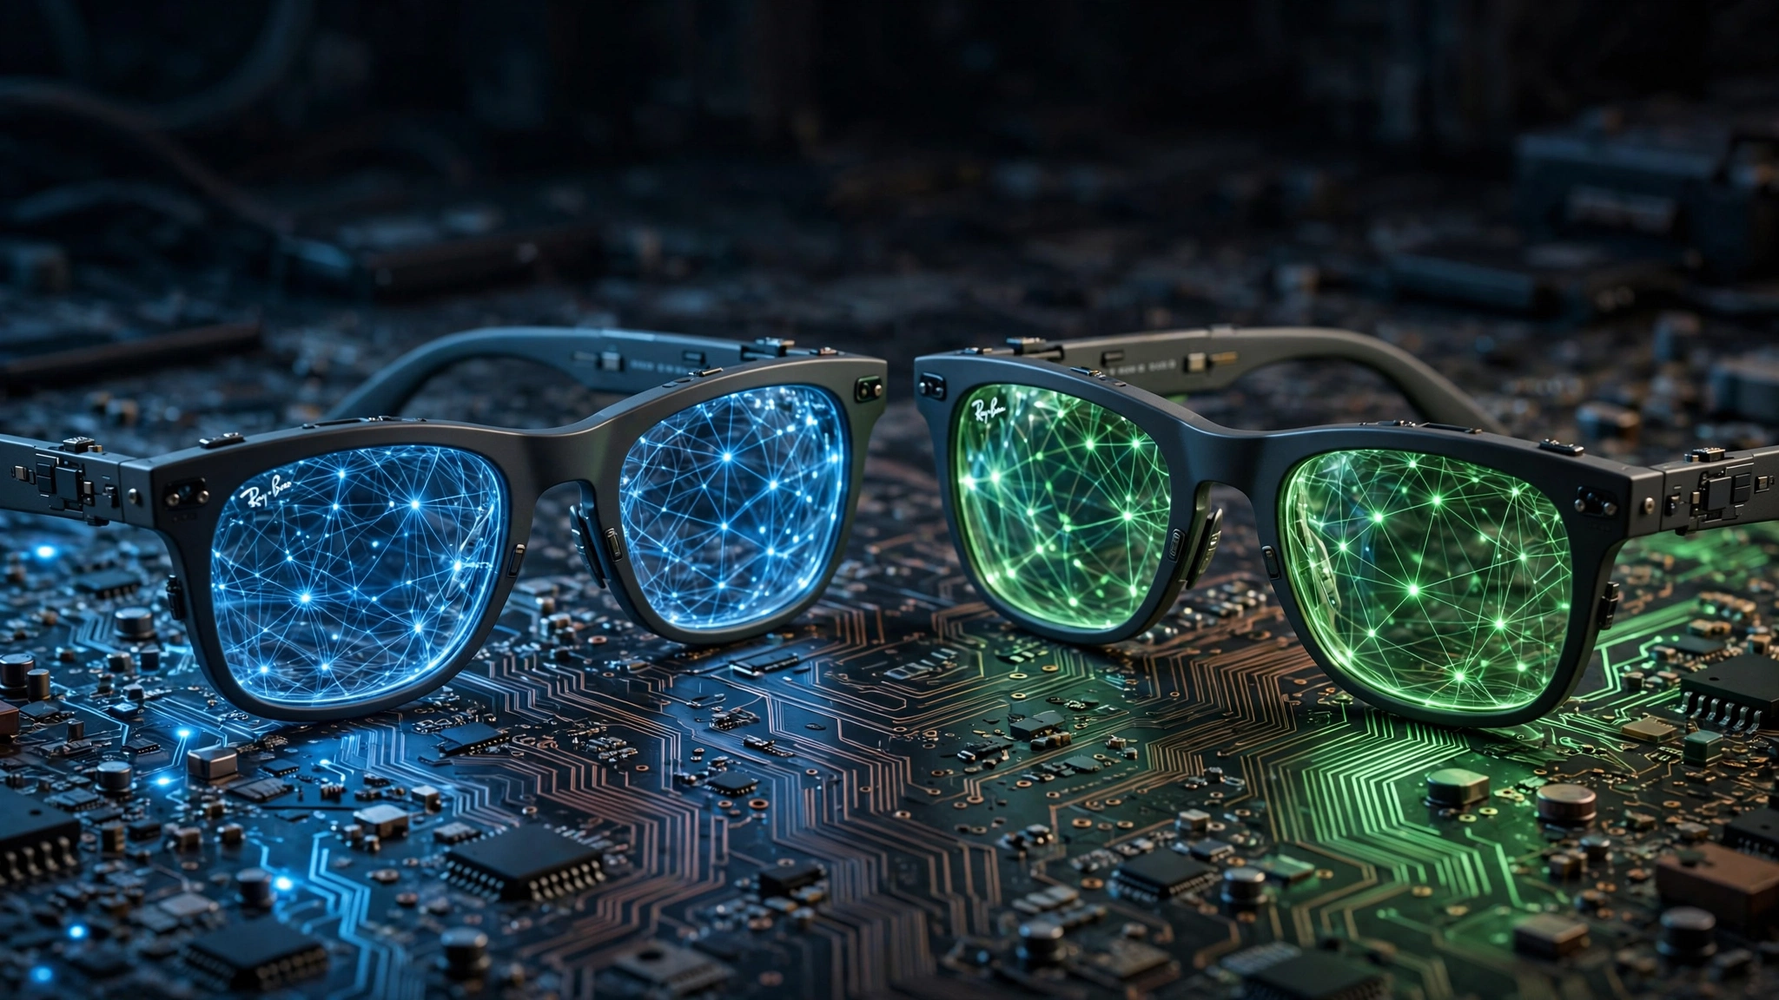
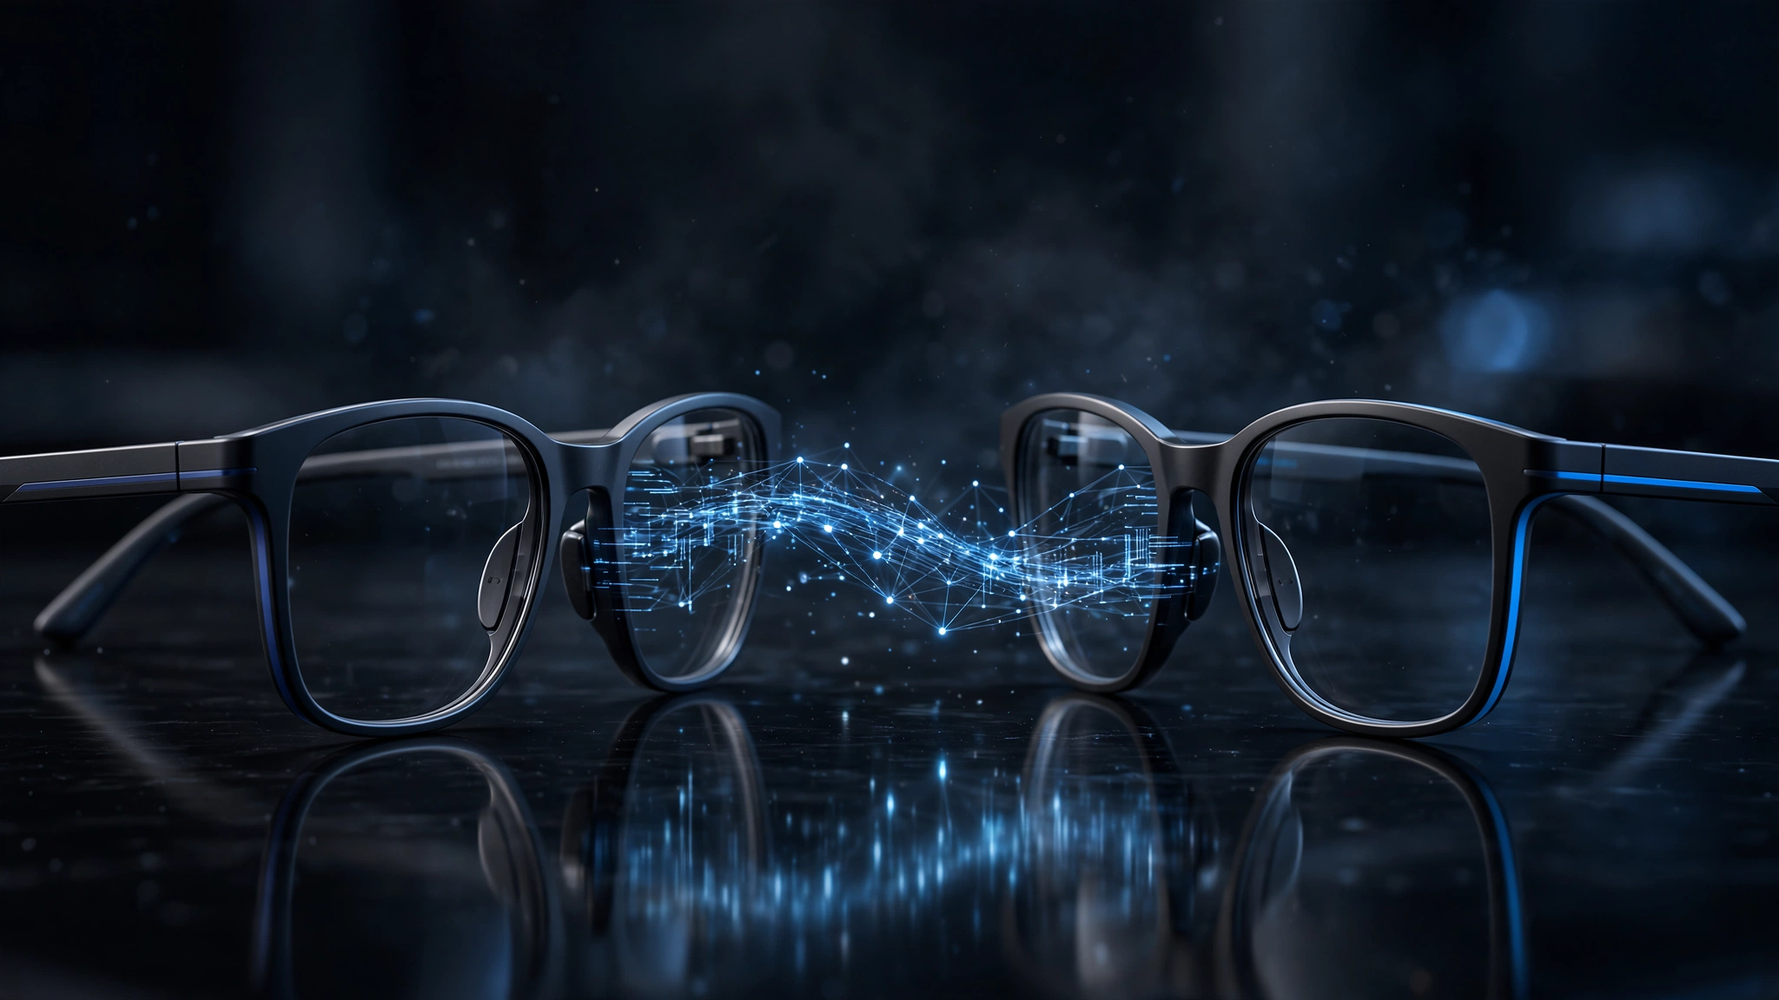
Publish #562: Samsung's Galaxy Glasses Have a 1 mAh Problem — Marcus Chen

diff --git a/stories/samsung-galaxy-glasses-bom-clone-ai-subsidy-war.html b/stories/samsung-galaxy-glasses-bom-clone-ai-subsidy-war.html
@@ -1,0 +1,142 @@
+<!DOCTYPE html>
+<html lang="en">
+<head>
+    <meta charset="UTF-8">
+    <meta name="viewport" content="width=device-width, initial-scale=1.0">
+    <title>Samsung's Galaxy Glasses Have a 1 mAh Problem: They're a $379 Clone of Meta's Ray-Bans, and the AI Subsidy Math Says That's Fatal</title>
+    <meta name="description" content="Samsung and Meta built the same pair of glasses with the same chip, same camera, same battery within 1 mAh. The only difference is which AI model whispers in your ear, and Meta's inference costs 58% less per user per month.">
+    <link rel="stylesheet" href="/story.css">
+    <script>(function(){var t=localStorage.getItem("theme");if(t==="dark"||(!t&&window.matchMedia("(prefers-color-scheme: dark)").matches))document.documentElement.classList.add("dark");})();</script>
+</head>
+<body>
+    <article class="story-page">
+        <header>
+            <p class="story-kicker">🤖 Wearables</p>
+            <h1>Samsung's Galaxy Glasses Have a 1 mAh Problem: They're a $379 Clone of Meta's Ray-Bans, and the AI Subsidy Math Says That's Fatal</h1>
+            <p class="story-deck">Samsung and Meta built the same pair of glasses: same Snapdragon AR1 chip, same 12MP camera, same battery within 1 mAh, same price within $20. The entire competitive war comes down to which company can afford to subsidize the AI model whispering in your ear for two years straight.</p>
+        </header>
+
+        <figure class="story-hero">
+            <img src="/images/samsung-galaxy-glasses-bom-clone-ai-subsidy-war.webp" alt="Two nearly identical pairs of smart glasses facing each other on a reflective surface, one subtly branded Samsung and one Meta, with faint AI neural network patterns glowing between them">
+        </figure>
+
+        <div class="story-byline">Marcus Chen</div>
+        <time datetime="2026-07-09">July 9, 2026</time>
+
+        <div class="story-body">
+
+            <p>One milliamp-hour. That is the battery capacity difference between Samsung's Galaxy Glasses, which the company will tease at its London launch event on July 22, and Meta's Ray-Ban Gen 2, which has been shipping since late 2025 and has already moved north of <a href="https://www.essilorluxottica.com/en/investors/">seven million pairs</a>. Samsung packed in 155 mAh and Meta went with 154. Both pairs use the same Qualcomm Snapdragon AR1 family processor. Camera resolution is identical at 12 megapixels, and weight is within two grams. The price, based on leaked retail positioning and retailer listings, will overlap within $20 of Meta's $379 entry point.</p>
+
+            <p>This is not a competition between two products. It is a competition between two income statements — specifically, between the line item that neither company wants to talk about: the per-user monthly cost of running multimodal AI inference on a device that has no local compute budget for large language models and must relay every query to the cloud.</p>
+
+            <h2>The Clone Table</h2>
+
+            <p>Start with the hardware, because the hardware story is short.</p>
+
+            <table>
+                <thead>
+                    <tr>
+                        <th>Component</th>
+                        <th>Samsung Galaxy Glasses</th>
+                        <th>Meta Ray-Ban Gen 2</th>
+                        <th>Delta</th>
+                    </tr>
+                </thead>
+                <tbody>
+                    <tr><td>Processor</td><td>Snapdragon AR1</td><td>Snapdragon AR1 Gen 1</td><td>Same family</td></tr>
+                    <tr><td>Camera</td><td>12MP Sony IMX681</td><td>12MP (unspecified sensor)</td><td>Same resolution</td></tr>
+                    <tr><td>Battery</td><td>155 mAh</td><td>154 mAh</td><td>1 mAh</td></tr>
+                    <tr><td>Weight</td><td>~50g</td><td>48–51g</td><td>&lt;2g</td></tr>
+                    <tr><td>Connectivity</td><td>BT 5.3, Wi-Fi</td><td>BT 5.2, Wi-Fi</td><td>Minor</td></tr>
+                    <tr><td>Audio</td><td>Directional speakers</td><td>Open-ear speakers</td><td>Functionally identical</td></tr>
+                    <tr><td>iPhone support</td><td>Yes (I/O 2026)</td><td>Yes</td><td>Both cross-platform</td></tr>
+                    <tr><td>Price</td><td>$379–499</td><td>$379–460</td><td>Overlapping</td></tr>
+                    <tr><td>AI Platform</td><td>Android XR / Gemini</td><td>Meta AI / Llama 4</td><td><strong>Only real difference</strong></td></tr>
+                </tbody>
+            </table>
+
+            <p>Nine components. Eight of them identical or so close to identical that no consumer could perceive the difference blindfolded. The ninth is the AI platform, and everything downstream of it (fashion partnerships with Gentle Monster and Warby Parker for Samsung versus Ray-Ban for Meta, the app ecosystem, the brand positioning, the ad copy) flows from that single differentiator. Samsung and Meta did not independently converge on the same bill of materials by coincidence; they converged because <a href="https://www.qualcomm.com/products/mobile/snapdragon/ar-smart-viewer-platforms">Qualcomm's AR1 reference design</a> is the only viable chipset for camera-equipped smart glasses in 2026, and the battery, weight, and sensor constraints that flow from that chipset leave almost no room for hardware differentiation. Qualcomm supplies four of the five major smart-glasses platforms on the market today. Hardware is commodity. Done.</p>
+
+            <h2>The $32 Pair</h2>
+
+            <p>If hardware is commodity, then margins are thin. How thin?</p>
+
+            <p>EssilorLuxottica's <a href="https://www.essilorluxottica.com/en/investors/">2025 annual earnings</a> provide the raw material for a calculation the company has conspicuously avoided disclosing: the per-pair operating profit on a smart pair of Ray-Bans versus a dumb pair. Total revenue came in at €28.49 billion. Adjusted operating margin was 15.65%, down from 16.7% the prior year. Smart glasses sold: seven million-plus pairs. And the company's own language was unambiguous: smart glasses had "dragged" operating margins down.</p>
+
+            <p>Work backward. Estimated smart glasses revenue at a ~€350 average selling price: roughly €2.45 billion, or 8.6% of total revenue. The 0.7-percentage-point margin decline represents approximately €200 million in margin compression. That implies a smart glasses operating margin of roughly 8.5%, which means each smart pair generates about €30 in operating profit.</p>
+
+            <p>Thirty euros. Roughly $32.</p>
+
+            <p>For context: a regular pair of Ray-Bans retailing at $200 earns $33.40 at EssilorLuxottica's historical 16.7% operating margin. A $379 smart pair makes less money than a $200 dumb pair. EssilorLuxottica is not selling smart glasses because the unit economics are attractive. It is selling them because Meta invested $3.5 billion in EssilorLuxottica stock, and the strategic bet is that volume at seven-plus million pairs annually builds an ecosystem moat before Samsung, Google, Apple, and a wave of Chinese entrants can catch up. The glasses are a loss leader for something that does not exist yet: an AI platform delivered through a fashion accessory. Whether the AI economics behind that platform can sustain the bet is the question nobody in the analyst community seems to be quantifying.</p>
+
+            <h2>The AI Subsidy Nobody Talks About</h2>
+
+            <p>Here is the calculation that should be dominating the conversation but isn't: how much does it cost each company to run the AI model that makes these glasses useful, per user, per month, for the full two-year lifecycle of the device?</p>
+
+            <p>Both pairs are functionally dumb without cloud AI. Ask a question, capture an image, relay it to a data center, let a multimodal LLM process the query, send the answer back to your ear. Every interaction is an inference call, and every call costs money. Neither Samsung nor Meta charges a subscription for this service. The AI is free, bundled into the purchase price, which means the manufacturer eats the inference cost for as long as you own the glasses.</p>
+
+            <p>Using public API pricing as an upper bound and discounting to approximate internal transfer pricing at 20–30% of retail rates, based on <a href="https://cloud.google.com/vertex-ai/pricing">Google Cloud's published Gemini pricing</a> and industry estimates for Meta's vertically integrated Llama inference stack:</p>
+
+            <table>
+                <thead>
+                    <tr>
+                        <th>Metric</th>
+                        <th>Samsung / Gemini</th>
+                        <th>Meta / Llama 4</th>
+                    </tr>
+                </thead>
+                <tbody>
+                    <tr><td>Estimated cost per query (internal)</td><td>$0.005–0.007</td><td>$0.002–0.003</td></tr>
+                    <tr><td>Average queries/day (active user)</td><td>15</td><td>15</td></tr>
+                    <tr><td>Monthly inference cost</td><td>$2.70</td><td>$1.13</td></tr>
+                    <tr><td>24-month device lifecycle cost</td><td>$64.80</td><td>$27.00</td></tr>
+                    <tr><td>Power user (25/day) lifecycle cost</td><td>$108.00</td><td>$45.00</td></tr>
+                </tbody>
+            </table>
+
+            <p>Meta's cost advantage is 58%.</p>
+
+            <p>Per pair, over two years, Meta spends roughly $37.80 less on AI inference than Samsung does, and recall that the hardware margin is only $32 per pair. Samsung's AI subsidy over the device lifecycle exceeds its entire hardware margin by a factor of two — $64.80 per user against what will likely be a similar or worse operating profit on the glasses themselves, while Meta's $27 subsidy stays comfortably below the margin line even after accounting for EssilorLuxottica's anemic smart-glasses profitability.</p>
+
+            <p>Vertical integration explains the gap. Meta runs Llama 4 on its own data centers, on its own custom silicon (MTIA), at its own internal transfer price, which analysts estimate at roughly 40–50% below comparable API costs because there is no margin layer between the AI team and the hardware team, no licensing fee, no metered billing, no partner that can raise rates unilaterally. Samsung routes queries through Google's Gemini infrastructure, where Google sets the price, captures a margin, and can raise rates at will. Google is simultaneously building its own smart glasses on the same Android XR platform it licenses to Samsung, a conflict of interest so architecturally obvious that it would be comical if billions of dollars were not riding on the outcome.</p>
+
+            <h2>The Market Is Already Moving</h2>
+
+            <p>Smart glasses shipments surged 167% year-over-year in Q1 2026, according to <a href="https://www.idc.com/tracker/showproductinfo.jsp?containerId=IDC_P29765">IDC's Worldwide Wearable and AR/VR Tracker</a>. That single quarter, roughly 2.25 million units, matched all of calendar year 2024. Meta holds 69.2% market share but is slipping, down from 72.2% a year earlier, meaning every new entrant nibbles share from a pie growing fast enough that even a shrinking percentage still means more units.</p>
+
+            <p>IDC projects 13.6 million display-less smart glasses in 2026 at a $376 average selling price, generating $5.1 billion in revenue. <a href="https://www.smartanalyticsgroup.com/">Smart Analytics Global</a> is more aggressive: 20 million units, $5.6 billion, scaling to 75 million units and $29 billion by 2030. Even the conservative IDC forecast implies ASP compression to $229 by 2030, a 40% drop, and that compression creates a vise: AI inference subsidies become relatively more expensive over time as hardware margins shrink, but AI costs decline on a shallower curve because model complexity grows faster than inference efficiency improves, a dynamic that punishes companies renting AI infrastructure and rewards companies that own it.</p>
+
+            <p>Chinese manufacturers already ship 45% of global AI glasses by volume. RayNeo leads the display segment at 23.7% market share. Xiaomi is at 3.1%. Apple is three to four years away, per Bloomberg's Gurman. The five-way platform war (Even Realities, Android XR, Meta, Apple, and eventually OpenAI) plays out against a backdrop where hardware differentiation is structurally impossible because everyone buys the same Qualcomm chip, and the only axis of competition is AI model quality and the willingness to bleed money subsidizing inference until the install base is large enough to monetize through subscriptions, commerce, or advertising.</p>
+
+            <h2>The Strongest Case for Samsung</h2>
+
+            <p>The bull case for Samsung's Galaxy Glasses deserves its full weight.</p>
+
+            <p>First, Gemini may simply be a better model. Google's multimodal capabilities in visual search, real-time translation, and contextual understanding of physical environments are arguably ahead of Meta AI in the benchmarks that matter for glasses use cases: object identification, scene description, multilingual conversation. If the AI is meaningfully better, users will tolerate a premium or accept ads, and the per-query cost gap stops mattering because the revenue per user is higher.</p>
+
+            <p>Second, Samsung's device ecosystem creates an integration surface Meta cannot replicate. Galaxy phones, Galaxy Watches, Galaxy Buds, Galaxy tablets: Samsung can pipe notifications, health data, messaging threads, and calendar context directly into the glasses experience in ways the Meta View companion app structurally cannot, because Meta does not make phones. The Galaxy Watch photo review feature <a href="https://sammobile.com/">announced at I/O 2026</a>, where users preview and manage photos taken with the glasses on their wrist, is a small example of a large advantage: Samsung is selling a system, Meta is selling an accessory.</p>
+
+            <p>Third, fashion partnerships may matter more than inference costs in a category where the primary purchase barrier is not functionality but whether people are willing to wear the product in public. Gentle Monster has cachet among East Asian consumers that Ray-Ban does not. Warby Parker reaches a younger American demographic. Samsung's partner portfolio targets different buyers, expanding the addressable market rather than splitting it. And EssilorLuxottica's exclusive relationship with Meta means Samsung can partner with literally every other frame manufacturer on Earth.</p>
+
+            <h2>Limitations</h2>
+
+            <p>These per-query inference cost estimates rely on public API pricing discounted to approximate internal transfer pricing, and neither Meta nor Samsung discloses actual per-query costs. Meta's cost advantage could be smaller if Google offers Samsung a deeply subsidized Gemini rate to secure the partnership (plausible, given Google's strategic interest in Android XR adoption) or larger if Meta's MTIA custom silicon delivers even lower per-query costs than the estimates above assume. The 15-queries-per-day usage assumption interpolates from Meta's disclosed "hundreds of millions of monthly active users" across Meta AI and analyst estimates of per-user engagement frequency; actual glasses-specific query volume could be materially different, and "active user" definitions vary across companies. The EssilorLuxottica margin decomposition attributes the full 0.7-percentage-point decline to smart glasses, which may overstate the per-pair impact if other product lines also contributed to the margin drag.</p>
+
+            <h2>What You Can Do</h2>
+
+            <p><strong>If you're buying smart glasses this year:</strong> wait until after Samsung's July 22 launch event. Pricing will be confirmed, early reviews will surface, and Meta may respond with a Gen 2 price cut or a software update that narrows any AI capability gap. Neither product is going to sell out because supply is not the constraint here. Patience costs nothing, and the first sixty days after Samsung's launch will reveal whether Gemini-on-glasses is meaningfully better than Meta AI or just differently branded.</p>
+
+            <p><strong>If you're in the supply chain:</strong> watch Qualcomm's next AR platform announcement. Qualcomm's Snapdragon AR1 is the ceiling on hardware differentiation for the entire category right now. Any architectural shift, whether on-device inference capability, integrated display silicon, or advanced sensor fusion, resets the competitive landscape more dramatically than anything Samsung or Meta can do with software. Companies that anticipate the next reference design win. Those that optimize for this one lose.</p>
+
+            <p><strong>If you're an investor:</strong> track three numbers. First, Meta's disclosed AI infrastructure capex per Meta AI monthly active user, which tells you whether scale is driving inference costs down fast enough. Second, Samsung's Gemini licensing terms when they inevitably leak, because the per-query spread versus Meta's internal cost is the margin story. Third, the ASP compression curve from IDC: if average selling prices hit $229 by 2030 as projected, a $65 inference subsidy becomes 28% of the retail price, a margin structure that only works if you own the model, the silicon, and the data center. Meta does. Samsung does not.</p>
+
+            <h2>The Bottom Line</h2>
+
+            <p>Samsung's Galaxy Glasses are a $379 pair of smart glasses built from the same parts as a $379 pair of Meta Ray-Bans. Same chip. Same camera. Same battery, give or take a milliamp-hour that would not power an LED for one additional second. The hardware is a commodity sourced from a single supplier that sells to everyone, and the margin on each pair is so thin that a dumb pair of Ray-Bans at half the price generates more operating profit. What remains is the AI, and the AI is not free — it is a rolling subsidy that each manufacturer absorbs for two years per user, and Meta's vertically integrated inference stack runs that subsidy at 58% less than Samsung's rented Gemini pipeline. Samsung is not entering the smart-glasses market. It is entering the AI-subsidy market, wearing a pair of Gentle Monsters.</p>
+
+        </div>
+    </article>
+    <script src="/story-nav.js"></script>
+    <script src="/story.js"></script>
+</body>
+</html>

diff --git a/index.html b/index.html
@@ -61,14 +61,14 @@
     <div class="ticker-item">🧬 <span class="ticker-number" data-target="7">0</span>B+ longevity funding</div>
     <div class="ticker-item">⚡ <span class="ticker-number" data-target="120">0</span> GW battery added 2025</div>
     <div class="ticker-item">🤖 <span class="ticker-number" data-target="38">0</span>B humanoid market 2035</div>
-    <div class="ticker-item">📰 <span class="ticker-number" data-target="561">0</span> investigations</div>
+    <div class="ticker-item">📰 <span class="ticker-number" data-target="562">0</span> investigations</div>
   </div>
 </div>
 
 <!-- Search -->
 <div class="search-bar">
   <div class="search-wrap">
-    <input type="text" class="search-input" placeholder="Search 561 articles... (press / to focus)" id="searchInput" oninput="filterArticles(); clearWriterFilter();">
+    <input type="text" class="search-input" placeholder="Search 562 articles... (press / to focus)" id="searchInput" oninput="filterArticles(); clearWriterFilter();">
   </div>
 </div>
 
@@ -96,14 +96,14 @@
 
 <!-- Featured Article -->
 <section class="featured" id="articles">
-  <a href="stories/chipflation-memory-tax-ai-consumer-prices.html" style="text-decoration:none;color:inherit">
+  <a href="stories/samsung-galaxy-glasses-bom-clone-ai-subsidy-war.html" style="text-decoration:none;color:inherit">
     <div class="featured-card">
-      <img src="images/chipflation-memory-tax-ai-consumer-prices.webp" alt="" class="featured-img" loading="eager">
+      <img src="images/samsung-galaxy-glasses-bom-clone-ai-subsidy-war.webp" alt="" class="featured-img" loading="eager">
       <div class="featured-content">
-        <span class="featured-kicker">⚡ Energy &amp; Infrastructure</span>
-        <h2 class="featured-title">Your MacBook Just Got a $100 AI Tax. The Math Behind "Chipflation" Shows It's Not Going Away Until 2028.</h2>
-        <p class="featured-deck">Apple raised Mac and iPad prices 17–29% last month. The reason is a zero-sum physics problem: each gigabyte of AI memory physically destroys capacity for three gigabytes of laptop memory, and the three companies that control the supply just committed $2 trillion to make it worse.</p>
-        <p class="featured-meta"><strong>Anya Volkov</strong> &middot; July 9, 2026 &middot; &#9749; 8 min read</p>
+        <span class="featured-kicker">🤖 Wearables</span>
+        <h2 class="featured-title">Samsung's Galaxy Glasses Have a 1 mAh Problem: They're a $379 Clone of Meta's Ray-Bans, and the AI Subsidy Math Says That's Fatal</h2>
+        <p class="featured-deck">Samsung and Meta built the same pair of glasses: same Snapdragon AR1 chip, same 12MP camera, same battery within 1 mAh, same price within $20. The entire competitive war comes down to which company can afford to subsidize the AI model whispering in your ear for two years straight.</p>
+        <p class="featured-meta"><strong>Marcus Chen</strong> &middot; July 9, 2026 &middot; &#9749; 9 min read</p>
       </div>
     </div>
   </a>
@@ -113,9 +113,15 @@
 <section class="article-grid-section">
   <div class="grid-header">
     <h2 class="grid-title">Latest Investigations</h2>
-    <span class="article-count" id="articleCount">561 articles</span>
+    <span class="article-count" id="articleCount">562 articles</span>
   </div>
   <div class="article-grid" id="articleGrid">
+    <a href="stories/samsung-galaxy-glasses-bom-clone-ai-subsidy-war.html" class="article-card" data-writer="Marcus Chen" data-cat="wearables" data-search="Samsung Galaxy Glasses Meta Ray-Ban smart glasses Snapdragon AR1 Qualcomm BOM bill of materials AI inference subsidy Gemini Llama EssilorLuxottica cost per query Android XR Gentle Monster wearables market share IDC Marcus Chen">
+      <img src="images/samsung-galaxy-glasses-bom-clone-ai-subsidy-war.webp" alt="" class="card-img" loading="lazy">
+      <span class="card-kicker">🤖 Wearables</span>
+      <h3 class="card-title">Samsung's Galaxy Glasses Have a 1 mAh Problem: They're a $379 Clone of Meta's Ray-Bans, and the AI Subsidy Math Says That's Fatal</h3>
+      <p class="card-meta"><strong>Marcus Chen</strong> &middot; Jul 9</p>
+    </a>
     <a href="stories/chipflation-memory-tax-ai-consumer-prices.html" class="article-card" data-writer="Anya Volkov" data-cat="energy" data-search="chipflation memory tax AI consumer prices DRAM NAND HBM Apple MacBook iPad price increase Samsung SK Hynix Micron wafer capacity 3-to-1 rule silicon shortage supercycle Morgan Stanley semiconductor Anya Volkov">
       <img src="images/chipflation-memory-tax-ai-consumer-prices.webp" alt="" class="card-img" loading="lazy">
       <span class="card-kicker">⚡ Energy &amp; Infrastructure</span>
